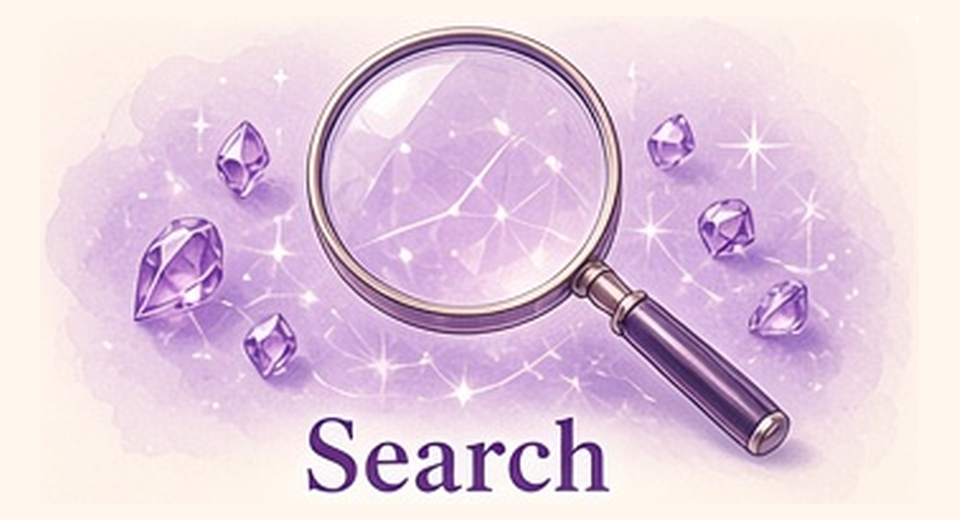
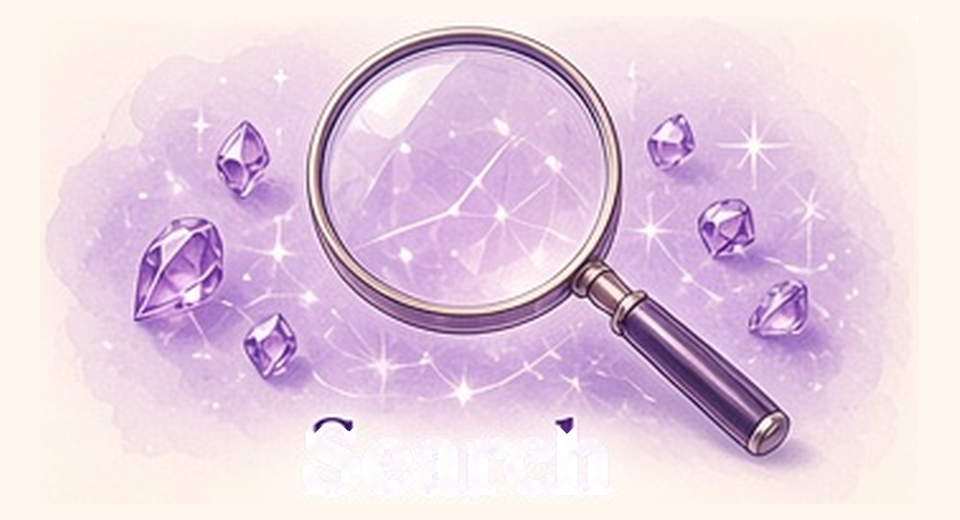
fix(finder): drop baked titles from /learn pillar art
Keep the HTML titles, label the Save tray Wish List, and use Louis's bullet copy.

Changed region(s): [[0.3125, 0.8, 0.6562, 0.9538]]

diff --git a/apps/finder/tests/sparkle-finder/learn-page.test.tsx b/apps/finder/tests/sparkle-finder/learn-page.test.tsx
@@ -99,19 +99,18 @@ describe("Sparkle Finder /learn", () => {
     expect(markup).toContain("M14.2 3.1c.5 2.6 2 4.4 4.5 4.7");
     const freeCard = markup.slice(freeCardAt);
     expect(freeCard).not.toMatch(/save a collection|saving a collection/i);
-    expect(markup.match(/Hunt the jewelry library/g)).toHaveLength(1);
-    expect(markup.match(/Pieces you already own/g)).toHaveLength(1);
-    expect(markup.match(/Pieces you want to collect/g)).toHaveLength(1);
-    expect(markup.match(/Save what you find/g)).toHaveLength(1);
-    expect(markup.match(/Own it → your collection/g)).toHaveLength(1);
-    expect(markup.match(/Don(?:'|&#x27;)t own it → wish list/g)).toHaveLength(1);
-    expect(markup.match(/See if a rep has it on their Dance Floor/g)).toHaveLength(1);
-    expect(markup.match(/See that rep(?:'|&#x27;)s next show/g)).toHaveLength(1);
-    expect(markup.match(/Go \/ check their website/g)).toHaveLength(1);
-    expect(markup.match(/Know when a rep has a piece you(?:'|&#x27;)re looking for/g)).toHaveLength(1);
-    expect(markup.match(/Curate your collection/g)).toHaveLength(1);
+    expect(markup.match(/Browse our Jewelry library built by our BP reps\./g)).toHaveLength(1);
+    expect(markup.match(/Look for the pieces you own, or want to collect/g)).toHaveLength(1);
+    expect(markup.match(/Already own a piece in the library\? Save it to your virtual collection too\./g)).toHaveLength(1);
+    expect(markup.match(/Find a piece you want, and save it to your wish list so you get notified when it is on a Dance Floor of a BP rep\./g)).toHaveLength(1);
+    expect(markup.match(/Find out when the next show is for the rep that has the piece you want\./g)).toHaveLength(1);
+    expect(markup.match(/Save your favorite reps and have access to browse their dance floors at any time\./g)).toHaveLength(1);
+    expect(markup.match(/Always be in the know where and when the next show will be\./g)).toHaveLength(1);
+    expect(markup.match(/Curate your virtual collection that matches your real pieces\./g)).toHaveLength(1);
     expect(markup.match(/Share with friends and family/g)).toHaveLength(1);
     expect(markup.match(/Brag about the bling/g)).toHaveLength(1);
+    expect(markup).not.toContain("Hunt the jewelry library");
+    expect(markup).not.toContain("Own it → your collection");
     expect(markup).not.toContain("Hunt through the jewelry database");
     expect(markup).not.toContain("When you find it, save it.");
     expect(markup).not.toMatch(/vault/i);
@@ -120,7 +119,7 @@ describe("Sparkle Finder /learn", () => {
     expect(markup).toContain(">Go to the show<");
     expect(markup).toContain(">Show it off<");
     expect(markup).not.toContain("In Finder today");
-    expect(markup).not.toContain("Jewelry library");
+    expect(markup).not.toContain(">Jewelry library<");
     expect(markup).not.toContain("Live shows");
     expect(markup).not.toContain("Hero Piece");
     expect(markup).not.toContain("Showcase Studio");

diff --git a/apps/finder/lib/sparkle-finder/learn-page-content.ts b/apps/finder/lib/sparkle-finder/learn-page-content.ts
@@ -22,31 +22,36 @@ export const finderLearnContent = {
       {
         title: "Search",
         image: "/learn/pillars/search.png",
-        bullets: ["Hunt the jewelry library", "Pieces you already own", "Pieces you want to collect"],
+        bullets: [
+          "Browse our Jewelry library built by our BP reps.",
+          "Look for the pieces you own, or want to collect",
+        ],
       },
       {
         title: "Save",
         image: "/learn/pillars/save.png",
         bullets: [
-          "Save what you find",
-          "Own it → your collection",
-          "Don't own it → wish list",
-          "See if a rep has it on their Dance Floor",
+          "Already own a piece in the library? Save it to your virtual collection too.",
+          "Find a piece you want, and save it to your wish list so you get notified when it is on a Dance Floor of a BP rep.",
         ],
       },
       {
         title: "Go to the show",
         image: "/learn/pillars/go-to-the-show.png",
         bullets: [
-          "See that rep's next show",
-          "Go / check their website",
-          "Know when a rep has a piece you're looking for",
+          "Find out when the next show is for the rep that has the piece you want.",
+          "Save your favorite reps and have access to browse their dance floors at any time.",
+          "Always be in the know where and when the next show will be.",
         ],
       },
       {
         title: "Show it off",
         image: "/learn/pillars/show-it-off.png",
-        bullets: ["Curate your collection", "Share with friends and family", "Brag about the bling"],
+        bullets: [
+          "Curate your virtual collection that matches your real pieces.",
+          "Share with friends and family",
+          "Brag about the bling",
+        ],
       },
     ],
   },

diff --git a/apps/finder/vault/2026-10-05-learn-concept2-titles-closeout.md b/apps/finder/vault/2026-10-05-learn-concept2-titles-closeout.md
@@ -1,0 +1,3 @@
+# 2026-10-05 /learn Concept 2 title cleanup
+
+Baked titles are out of the four `/learn` pillar paintings. HTML titles stay. Save art says Own and Wish List. Bullets are Louis's Smoke copy, with a few grammar fixes noted in the PR. Not deployed. Denver deploys sparkle-finder-smoke from this branch tip.
